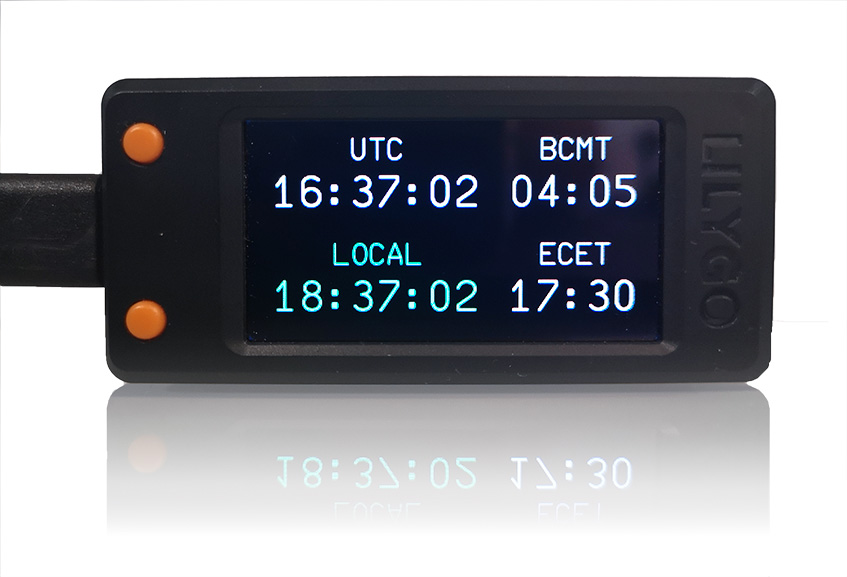
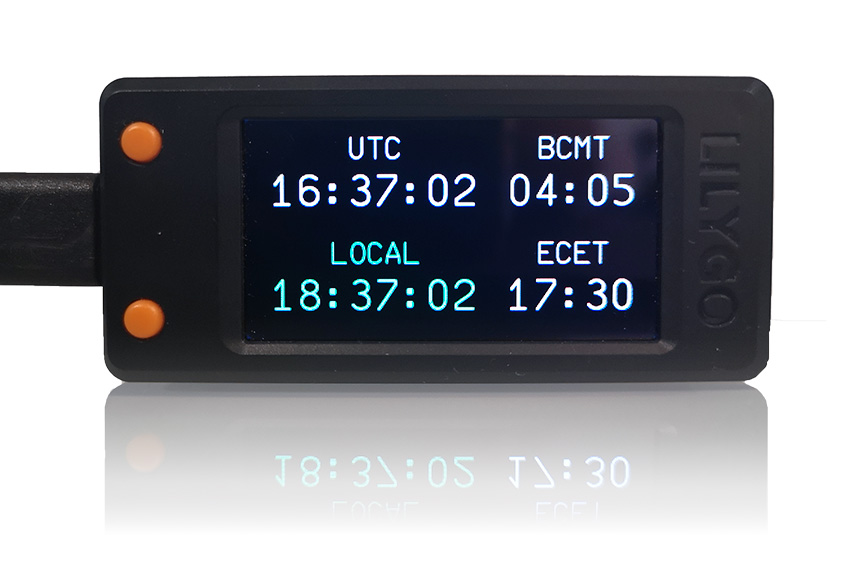
Extended documentation for customization

diff --git a/README.md b/README.md
@@ -67,3 +67,14 @@ and wakes it up again.
 
 The bottom of the two front buttons can be used to switch between the 
 debug information page and the clock. 
+
+## Customization
+
+### Fonts
+
+By default, a [font based upon a simulation of the A320 engine indication system](https://github.com/flybywiresim/aircraft/blob/master/fbw-a32nx/src/fonts/ECAMFontRegular_Source.sfd)
+is used. 
+
+To replace the font it needs to be converted using the 
+[lvgl online font converter](https://lvgl.io/tools/fontconverter)
+and can then be loaded and used in [clock_gui.cpp](src/clock_gui.cpp).
